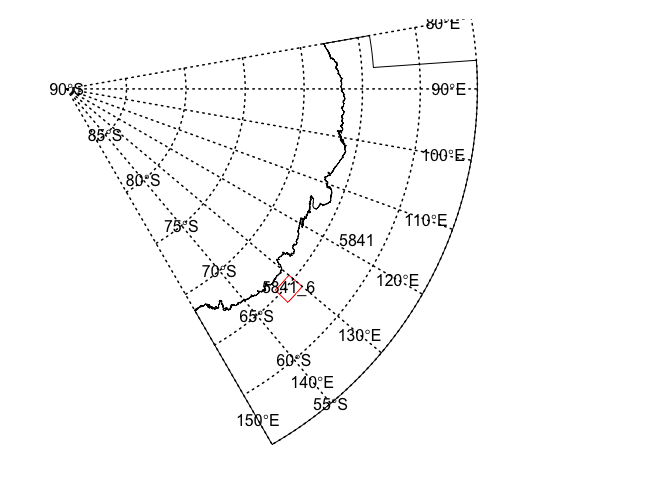
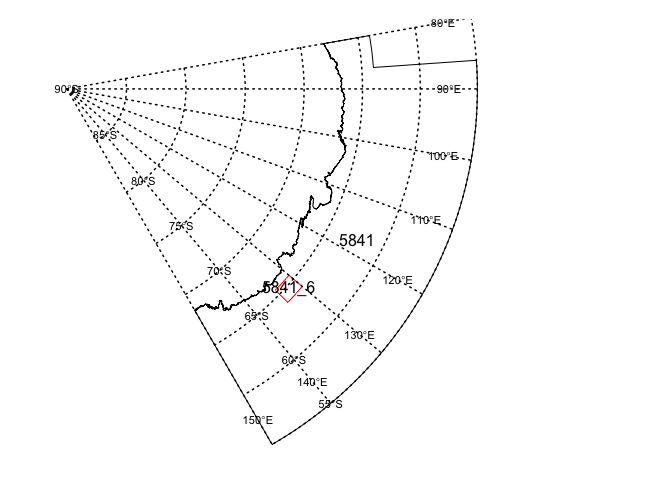
updated font size in README figure plot

diff --git a/README.md b/README.md
@@ -80,7 +80,7 @@ raster::plot(New_RB,add=TRUE,border="red")
 text(sp::coordinates(New_RB), labels=as.character(New_RB$name),cex=1,col="black")
 # add graticules to plot
 raster::plot(grat, add = TRUE, lty = 3,lwd=1.5)
-text(labs, lab = parse(text= labs$lab), col= "black", cex = 1)
+text(labs, lab = parse(text= labs$lab), col= "black", cex = 0.7)
 ```
 
 ![](README-unnamed-chunk-5-1.png)
